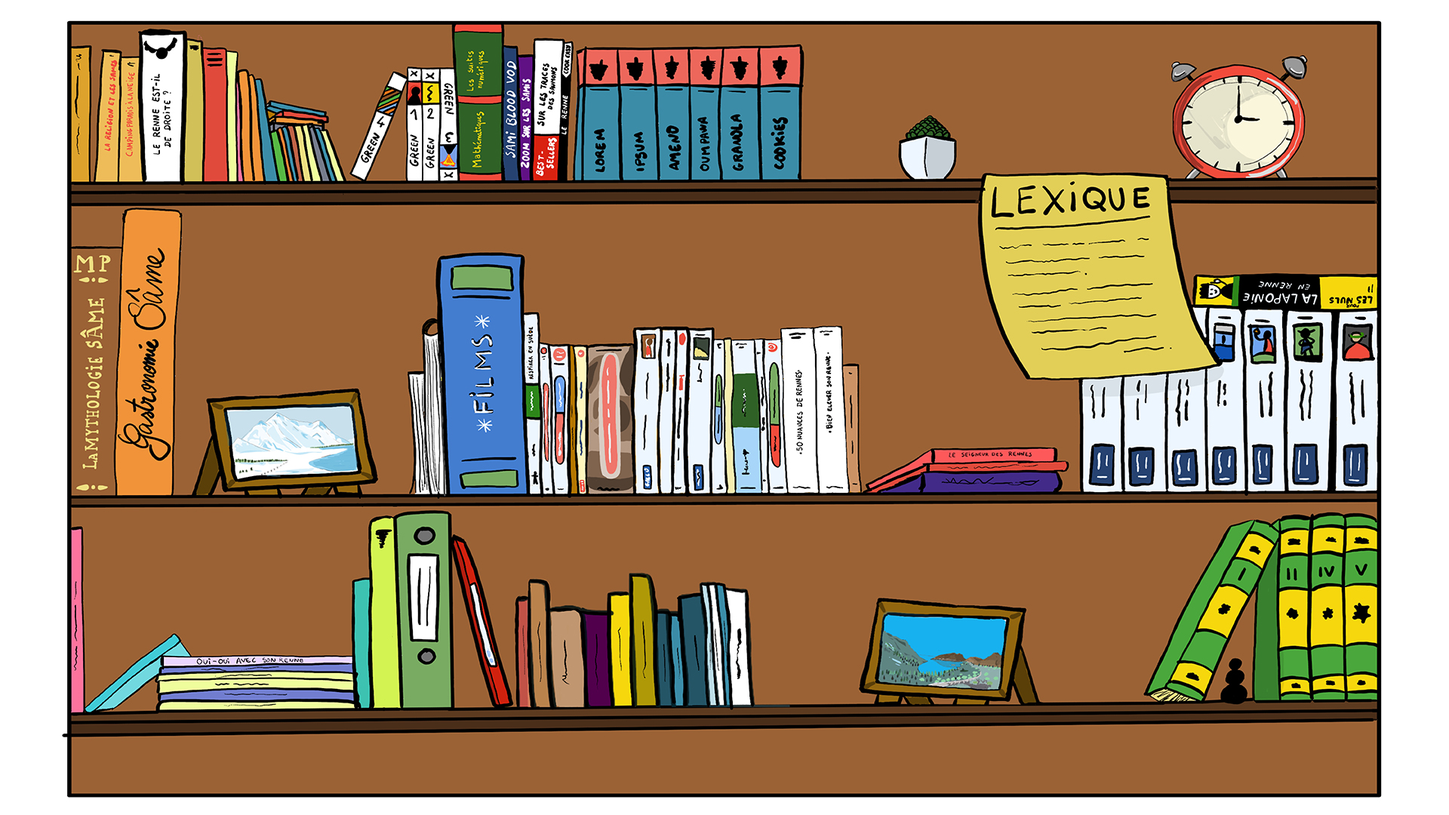
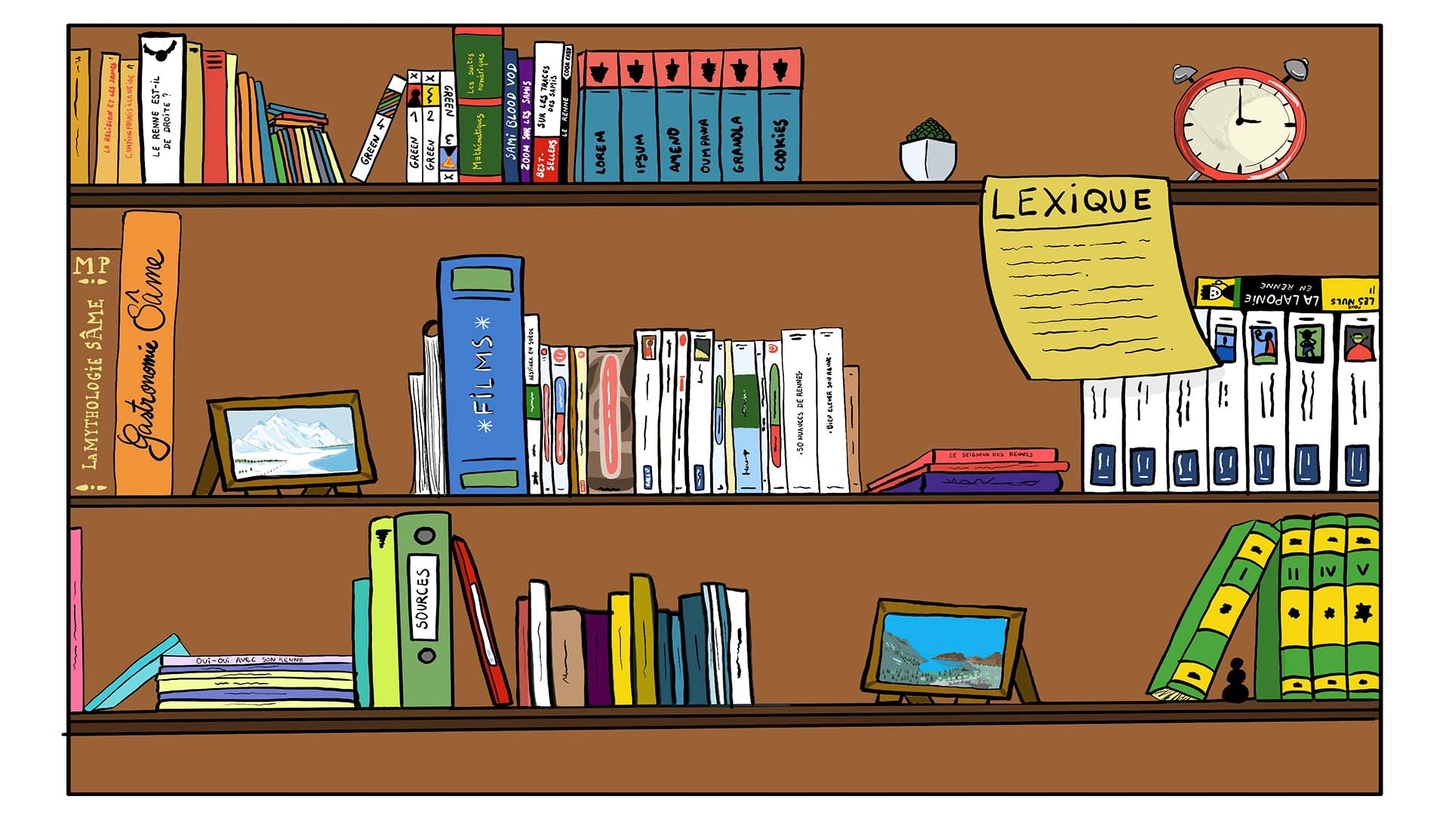
Commit final ???

diff --git a/pages/articles/histoire.html b/pages/articles/histoire.html
@@ -23,18 +23,18 @@
         </div>
         <div class="article-container">
             <div class="ligne l1">
-                <p>Les premiers habitants de Sápmi ont avancé vers le nord à mesure que les glaciers de la dernière période glaciaire reculaient. Leur culture plus large a probablement émergé d’un mélange de plusieurs groupes partageant des modes de vie similaires. Le paysage enneigé du Sápmi rendait l'invasion difficile, ils avaient donc rarement besoin de se battre ou de s'organiser politiquement. Ils ont acquis une réputation parmi les premiers écrivains en tant que sorciers insaisissables, patinant sur la neige sur des skis en bois. À la fin du Moyen-age, cependant, leurs voisins du sud avaient commencé à regarder vers le nord. Les anciennes voies de migration des rennes emmenaient désormais les Samis à travers de multiples frontières, attirant des impôts de tous côtés. Pour remédier à ce problème, les Samis ont pour certains apprivoisés leurs rennes, remodelant les schémas migratoires et réduisant leurs pâturages. D'autres se sont installés dans des communautés côtières, où ils ont gagné leur vie en tant que commerçants, agriculteurs et pêcheurs. Encore plus vivaient dans les forêts comme trappeurs et éleveurs limités de rennes.</p>
+                <p>Les premiers habitants du Sápmi (le territoire des samis) ont avancé vers le nord à mesure que les glaciers de la dernière période glaciaire reculaient. Leur culture a probablement émergé d’un mélange de plusieurs groupes partageant des modes de vie similaires. Le paysage enneigé du sapmi rendait l'invasion difficile, ils avaient donc rarement besoin de se battre ou de s'organiser politiquement. Ils ont acquis une réputation parmi les premiers écrivains en tant que sorciers insaisissables, patinant sur la neige sur des skis en bois.À la fin du Moyen  ge cependant, leurs voisins du sud ont commencé à regarder vers le nord. Les anciennes voies de migration des rennes amenaient désormais les Samis à travers de multiples frontières, attirant des impôts de tous côtés. Pour remédier à ce problème, certains des samis ont apprivoisé leurs rennes, remodelant les schémas migratoires et réduisant leurs pâturages. D'autres se sont installés dans des communautés côtières où ils ont gagné leur vie en tant que commerçants, agriculteurs et pêcheurs. Beaucoup plus vivaient dans les forêts comme trappeurs et éleveurs limités de rennes.</p>
             </div>
             <div class="ligne l2 limg">
-                <p>Malgré la colonisation et la christianisation forcée que les Samis côtiers ont été les premiers à subir, en raison de leurs contacts plus étroits avec les colons européens, le peuple Sami est le dernier peuple indigène d'Europe. En effet les Samis sont un peuple de laponie dont les origines remontent à plus de 4000 ans. Ce peuple des grands froids souvent nommé lapon, même si ils préfèrent la dénomination "Samis" qui vient de la tradition finno-ougriste française (neuf dialectes) utilisant le terme “same” . De plus la racine “lapp” signifiant porteur de haillons en suédois, explique que ce surnom déplaise à ce peuple.</p>
+                <p>Malgré la colonisation et la christianisation forcée (que les Samis côtiers ont été les premiers à subir en raison de leurs contacts plus étroits avec les colons européens), le peuple sami est le dernier peuple indigène d'Europe. En effet les samis sont un peuple de laponie dont les origines remontent à plus de 4000 ans. Ce peuple des grands froids est souvent nommé “lapon”, mais il préfère la dénomination “sami” qui vient du terme “same” de la tradition finno-ougriste française(composé de neuf dialectes). De plus, la racine “lapp” signifiant “porteur de haillons” en suéduois,vexplique que ce surnom déplaise  à ce peuple.</p>
                 <img src="../../img/histoire1.jpg" alt="">
             </div>
             <div class="ligne l3">
-                <p>Les Samis sont des nomades qui vivent de l'élevage de renne. le renne est au cœur de la culture Samis que ce soit leur saison ou encore leur vie qui suit le gré des aurore boréale et le cycle de vie des rennes. Leur mode de vie a un lien très fort avec la nature. Pour se nourrir les Samis ont recours à la chasse, la pêche ou encore la cueillette. Malgré les années, le peuple sami est toujours bien ancré dans ses terres car la population Sami est d’environ 80 à 100 000 personnes.Les Sami ont continué leur mode de vie traditionnel jusque vers les années 1500. La christianisation forcée des Samis a conduit à une répression religieuse dans de nombreux domaines. Les communautés sâmes ont vu leurs tambours de chaman brûlés et leurs enfants retirés pour être scolarisés dans des écoles publiques. La perte de terres, l'extraction de l'argent, la surpêche et la construction de barrages ont tous menacé le mode de vie Sami tout au long du 20e siècle. Traités comme une curiosité par les scientifiques et les touristes.</p>
+                <p>Les samis sont des nomades qui vivent de l'élevage de renne. Le renne est au cœur de la culture sami que ce soit au niveau de leur saison ou encore leur vie qui suit le gré des aurores boréales et le cycle de vie des rennes. Leur mode de vie a un lien très fort avec la nature. Pour se nourrir les samis ont recours à la chasse, la pêche ou encore la cueillette. Malgré les années, le peuple sami est toujours bien ancré dans ses terres et  la population sami est d’environ 80 à 100 000 personnes.Les Sami ont continué leur mode de vie traditionnel jusqu’au années 1500. La christianisation forcée des samis a conduit à une répression religieuse dans de nombreux domaines. Les communautés sâmes ont vu leurs tambours de chaman brûlé et leurs enfants retirés pour être scolarisés dans des écoles publiques. La perte des terres, l'extraction de l'argent, la surpêche et la construction de barrages ont menacé le mode de vie sami tout au long du 20e siècle. Les samis étaient traités comme une curiosité par les scientifiques et les touristes.</p>
             </div>
             <div class="ligne l4 limg">
                 <img src="../../img/histoire2.jpg" alt="">
-                <p>Cela a commencé à changer dans les années 1970, lorsque des militants Samis se sont manifestés. Leurs efforts ont alimenté un renouveau culturel plus large, aboutissant à des parlements Samis en Norvège, en Suède et en Finlande. Aujourd'hui, environ 10 000 Samis continuent de pratiquer l'élevage de rennes. Ils font partie d'une population plus large d'environ 70 000 personnes qui s'identifient comme Sami. La majorité, cependant, mène des modes de vie moderne en tant que membres de leurs nations.</p>
+                <p>Cela a commencé à changer dans les années 1970, lorsque des militants Samis se sont manifestés. Leurs efforts ont alimenté un renouveau culturel plus large, aboutissant à des parlements Samis en Norvège, en Suède et en Finlande. Aujourd'hui, environ 10 000 Samis continuent de pratiquer l'élevage de rennes. Ils font partie d'une population plus large d'environ 70 000 personnes qui s'identifient comme sami. La majorité, cependant, mènent des modes de vie modernes en tant que membres de leurs nations.</p>
                 
             </div>
         </div>

diff --git a/pages/articles/vetements.html b/pages/articles/vetements.html
@@ -23,11 +23,11 @@
         </div>
         <div class="article-container">
             <div class="ligne l1">
-                <p>Le kofte (« kofte » signifie « tunique » en norvégien) est le nom norvégien pour désigner le costume traditionnel des Samis. Contrairement aux idées occidentales bien trop répandues, le costume traditionnel n’est pas un habillement folklorique pour faire plaisir aux touristes. Le costume est un symbole important de l’identité Sami. Les couleurs dominantes sont le vert, le rouge, le bleu et le jaune. Les costumes sont différents selon les régions du Sápmi, et selon le sexe de la personne qui le porte, le motif en fonction de la commune ou du district où il est porté. Selon son style, le kofte présente l’origine géographique, le parcours religieux et le statut marital de celui ou celle qui le porte. Il est aussi un moyen de communication, car certains détails sont porteurs de divers messages, par exemple, lors d’un mariage, les femmes peuvent retourner leur bonnet pour exprimer leur désaccord envers l’union célébrée. Dans la langue des Samis, on l’appelle différemment en fonction de la région. Ainsi, pour les Samis du Nord, on dit « gákti », pour les Samis de Lule, on parle de « gáppte », alors que les Samis du Sud le désignent par « gapta » ou « gåptoe ».</p>
+                <p>Contrairement aux idées occidentales bien trop répandues, le costume traditionnel n’est pas un habillement folklorique pour faire plaisir aux touristes, il est un symbole important de l’identité sami. Les couleurs dominantes sont le vert, le rouge, le bleu et le jaune. Les costumes sont différents selon les régions du Sápmi, et selon le sexe de la personne qui le porte, le motifs en fonction de la commune ou du district où il est porté. Selon son style, l’habit présente l’origine géographique, le parcours religieux et le statut marital de celui ou celle qui le porte. Il est aussi un moyen de communication, car certains détails sont porteurs de divers messages, par exemple, lors d’un mariage, les femmes peuvent retourner leur bonnet pour exprimer leur désaccord envers l’union célébrée.  Dans la langue des Samis, on l’appelle différemment en fonction de la région. Ainsi, pour les Samis du Nord, on dit « gákti », pour les Samis de Lule, on parle de « gáppte », tandis que les Samis du Sud le désignent par « gapta » ou « gåptoe ».</p>
             </div>
             <img class="vetement-img" src="../../img/vetements.jpg" alt="">
             <div class="ligne l2">
-                <p>Le kofte se compose d’une tunique à manches longues et serrée à la taille par une ceinture. Pour les femmes, elle est toujours plus longue que pour les hommes. Le bonnet est également différent pour les femmes et les hommes, ces derniers portant souvent des bonnets à pointes, comme le bonnet « aux quatre vents ». Sous la tunique, on vêtit un pantalon pour les hommes ou un collant pour les femmes. Quant aux chaussures, elles sont appelées « skaller » et sont généralement confectionnées en peau de renne, mais aussi en cuir. Elles ont la pointe relevée et sont décorées de pompons et de bandes colorées et enroulées autour de la cheville. La tunique, la ceinture et le bonnet sont agrémentés de broderies d’après des motifs très précis, tandis que l’on peut rajouter une aumônière ou des moufles en peau ou en laine et spécialement pour les femmes, une large broche en argent sur la poitrine ou un châle à franges sur les épaules. Le kofte est traditionnellement confectionné en peau et en laine.</p>
+                <p>L’habit se compose d’une tunique à manches longues et est serrée à la taille par une ceinture. Pour les femmes, elle est toujours plus longue que pour les hommes. Le bonnet est également différent pour les femmes et les hommes, ces derniers portant souvent des bonnets à pointes, comme le bonnet « aux quatre vents ». Sous la tunique, les hommes portent un pantalon et les femmes un collant. Les chaussures sont appelées « skaller » et sont généralement confectionnées en peau de renne, mais aussi en cuir. Elles ont la pointe relevée et sont décorées de pompons et de bandes colorées et enroulées autour de la cheville. La tunique, la ceinture et le bonnet sont agrémentés de broderies d’après des motifs très précis, on peut rajouter une aumônière ou des moufles en peau ou en laine et, spécialement pour les femmes, une large broche en argent sur la poitrine ou un châle à franges sur les épaules. L’habit est traditionnellement confectionné en peau et en laine.</p>
             </div>
         </div>
     </main>

diff --git a/pages/articles/chasse-et-peche.html b/pages/articles/chasse-et-peche.html
@@ -26,16 +26,16 @@
         <div class="article-container">
             <div class="ligne l1">
                 <h1>La chasse</h1>
-                <p>La chasse est un rituel sacré pour les Samis, car pour eux, que ce soit les proies ou les armes qui servent à les tuer, tous possèdent un esprit. Elle inspire donc au Samis un immense respect et l’adoration. Les Samis ont entièrement domestiqué le renne au XVIe siècle. Avant cela, les Samis dépendaient principalement de la chasse des rennes sauvages qui se déplaçaient en vastes troupeaux à travers le Sápmi. Les Samis étaient des archers qualifié, les garçons apprenaient à tirer à l'arc dès leur plus jeune âge. Mais ils préféraient piéger les rennes dans des fossés plutôt que de les chasser à l'arc. Ou alors les attiraient dans des corrals à l'aide de leurs animaux domestiqués.</p>
+                <p>La  chasse est un rituel sacré pour les samis car pour eux, que ce soit au niveau des proies ou des armes qui servent à les tuer, tout possède un esprit. Elle inspire donc au samis un immense respect et l’adoration. Les Sami ont entièrement domestiqué le renne au XVIe siècle. Avant cela les samis dépendaient principalement de la chasse des rennes sauvages qui se déplaçaient en vastes troupeaux à travers le Sápmi. Les samis étaient des archers qualifiés et les garçons apprenaient à tirer à l'arc dès leur plus jeune âge. Mais ils (les samis) préféraient piéger les rennes dans des fossés plutôt que de les chasser à l'arc. Ils les attiraient également dans des corrals à l'aide de leurs animaux domestiqués.</p>
             </div>
             <div class="ligne l2 limg">
-                <p>Cette pratique a peu à peu cessé d'être à mesure ou les Samis apprivoisaient les rennes. Mais les rennes n'étaient pas les seuls animaux chassés par les Samis, les ours, les loups, l'orignal et d'autres animaux utiles du sapmi. Les plus patients parmi les Samis côtiers chassaient les phoques en attendant au-dessus des trous dans la glace. Les Samis forestiers quant à eux chassaient les ecureuil, des loutre et d’autre animaux à fourrure. Les outils de chasse des Samis étaient gardés à l'arrière des tentes dans l’espace de vie masculin.</p>
+                <p>Ces pratiques ont peu à peu cessé d'être à mesure que les samis apprivoisaient les rennes. Les rennes n'étaient cependant pas les seuls animaux  chassés par les samis. Les ours, les loups, l'orignal (également nommé élan) et d'autres animaux utiles du sapmi étaient chassé. Les plus patients parmi les samis côtiers chassaient les phoques en attendant au-dessus de trous dans la glace.  Les samis forestiers quant à eux chassaient les écureuil, les loutres et autres animaux à fourrure. Les outils de chasse des samis était gardé à l'arrière des tentes dans l’espace de vie masculin.</p>
                 <img src="../../img/pechechasse1.jpg" alt="">
             </div>
             <h2>La pêche</h2>
             <div class="ligne l3 limg">
                 <img src="../../img/pechechasse2.jpg" alt="">
-                <p>Aussi importante que la chasse dans la culture Sami primitive la pêche, est en effet elle aussi très importante, car pour les Samis côtiers qui avaient moins de forêt au alentour la pêche était indispensable. Les Samis côtiers entretenaient des fermes et pêchaient des poissons d’eau salée et plus à l'intérieur des terres les Samis pêchait des truites, mais plus particulièrement du saumon qui est avec le renne, le gibier le plus mangé par les Samis. Depuis 2021, la pêche du saumon est menacée, car le Deatnu haut lieu de la culture des pêcheurs Samis les autorités y interdisent la pêche aux saumons pour protéger l’espèce en déclin à cause de la surpêche.</p>
+                <p>Aussi importante que la chasse dans la culture sami primitive, la pêche a elle aussi un rôle prépondérant pour les samis vivant sur les côtes. Ils entretenaient des fermes et pêchaient des poissons d’eau salée. Plus à l'intérieur des terres, les samis pêchaient des truites mais plus particulièrement du saumon qui est, avec le renne, la viande la plus mangée par les samis. Depuis 2021, la pêche du saumon est menacée car dans le Deatnu, zone importante pour la pêche sami, elle est interdite à la pêche par les autorités afin de protéger l’espèce en déclin à cause de la surpêche.</p>
                 
             </div>
         </div>

diff --git a/pages/articles/filmographie.html b/pages/articles/filmographie.html
@@ -1,0 +1,51 @@
+<!DOCTYPE html>
+<html lang="en">
+<head>
+<link rel="icon" type="image/png" href="../../img/logo-blanc.png"/>
+    <meta charset="UTF-8">
+    <meta http-equiv="X-UA-Compatible" content="IE=edge">
+    <meta name="viewport" content="width=device-width, initial-scale=1.0">
+    <link rel="stylesheet" href="../../css/styles.css">
+    <link rel="stylesheet" href="../../css/articles-template.css">
+    <link rel="stylesheet" href="../../css/filmographie.css">
+    <title>Le Sápmi | Webdoc sami</title>
+</head>
+<body>
+    <header>
+        <a href="../../index.html">
+            <img class="logo" src="../../img/logo-bleu.png" alt="Logo du webdoc">
+        </a>
+    </header>
+
+    <main>
+        <div class="title">
+            <h1>Filmographie</h1>
+        </div>
+        <div class="article-container">
+            <div class="ligne l1">
+                <h2><u>Une jeunesse en Laponie</u>, 2018, réalisé par Amanda Kernell</h2>
+                <p>Elle, 14 ans, est une jeune fille d’origine Sâmi. Élève en internat, exposée au racisme des années 30 et à l’humiliation des évaluations ethniques, elle commence à rêver d’une autre vie. Pour s’émanciper et affirmer ce qu’elle souhaite devenir, elle n’a d’autres choix que rompre tous les liens avec sa famille et sa culture.</p>
+            </div>
+            <div class="ligne l2">
+                <h2><u>Jours polaires</u> (série), 2016, réalisé par Måns Mårlind et Björn Stein</h2>
+                <p>Au cœur de l’été arctique, à Kiruna, ville suédoise du cercle polaire, est perpétré le meurtre violent et mystérieux d'un citoyen français. Très vite, Kahina Zadi, capitaine française de l'Office central pour la répression des violences aux personnes, est immédiatement dépêchée sur place afin de mener l’enquête avec la police locale et plus particulièrement avec le procureur Anders Harnesk.</p>
+            </div>
+            <div class="ligne l3">
+                <h2><u>Klaus</u> (film d'animation), 2019, Sergio Pablos</h2>
+                <p>Jesper, qui s'est distingué comme le pire élève de son école de facteurs, écope d'une mission sur une île enneigée, au nord du Cercle arctique. Là-bas, les habitants ne s'entendent pas et ne se parlent presque jamais. Autant dire qu'ils n'entretiennent pas non plus de correspondance ! Alors que Jesper est sur le point d'abandonner, il trouve une alliée en la personne d'Alva, l'institutrice de l'île, et fait la connaissance de Klaus, mystérieux menuisier qui vit seul dans son chalet regorgeant de jouets artisanaux. Grâce à ces relations amicales inattendues, la petite ville de Smeerensburg retrouve la joie de vivre. C'est ainsi que ses habitants découvrent la générosité entre voisins, les contes de fée et la tradition des chaussettes soigneusement accrochées à la cheminée pour Noël !</p>
+            </div>
+            <div class="ligne l4">
+                <h2><u>Le passeur</u>, 1987,Nils Gaup</h2>
+                <p>Il y a quelque mille ans en Laponie. Aigin, adolescent de retour de la chasse, retrouve toute sa famille massacrée par un groupe de guerriers tchudes. Repéré, il parvient à s'enfuir et trouve refuge dans un campement lapon voisin. Cependant, blessé, il a laissé des traces derrière lui. Certains hommes de la tribu lui reprochent de les avoir mis en danger et décident de s'enfuir. Aigin reste seul, bien décidé à venger sa famille. Quelques heures plus tard, des Lapons reviennent pour l'aider, mais ils sont à nouveau massacrés. Aigin propose alors un marché aux Tchudes.</p>
+            </div>
+        </div>
+    </main>
+
+    <footer>
+        <div class="wrapper">
+          <a href="../bibliotheque-interact.html"><span>Retour</span></a>
+        </div>
+    </footer>
+</body>
+
+</html>

diff --git a/pages/articles/livres.html b/pages/articles/livres.html
@@ -1,0 +1,50 @@
+<!DOCTYPE html>
+<html lang="en">
+<head>
+<link rel="icon" type="image/png" href="../../img/logo-blanc.png"/>
+    <meta charset="UTF-8">
+    <meta http-equiv="X-UA-Compatible" content="IE=edge">
+    <meta name="viewport" content="width=device-width, initial-scale=1.0">
+    <link rel="stylesheet" href="../../css/styles.css">
+    <link rel="stylesheet" href="../../css/articles-template.css">
+    <link rel="stylesheet" href="../../css/livres.css">
+    <title>Le Sápmi | Webdoc sami</title>
+</head>
+<body>
+    <header>
+        <a href="../../index.html">
+            <img class="logo" src="../../img/logo-bleu.png" alt="Logo du webdoc">
+        </a>
+    </header>
+
+    <main>
+        <div class="title">
+            <h1>Filmographie</h1>
+        </div>
+        <div class="article-container">
+            <h2><u>comment cuire un ours</u>, Mikael Niemi</h2>
+            <div class="ligne l1 limg">
+                <p>En 1852, Lars Levi Laestadius, botaniste émérite, pasteur haut en couleur du petit village de Kengis tente de combattre l’athéisme et l’alcoolisme de ses paroissiens. Contre l'avis des villageois, Laestadius recueille un jeune garçon sámi, affamé et illettré, Jussi, qu’il va secrètement formé à la botanique. Lorsqu'une servante est retrouvée morte dans la forêt, ce crime est imputé à… un ours. Laestadius n'y croit pas un instant. Quand une deuxième jeune fille vient à disparaître, Laestadius décide de mener l'enquête accompagné de Jussi.</p>
+                <img src="../../img/cuireunourse.png" alt="">
+            </div>
+            <h2><u>le dernier lapon</u>, Olivier Truc</h2>
+            <div class="ligne l2 limg">
+                <img src="../../img/dernierLapon.png" alt="">
+                <p>À Kautokeino, grand village sami au milieu de la toundra, un tambour spécial est volé. La mort d’un éleveur de rennes n’arrange rien à l’affaire. Deux enquêteurs de la police des rennes Klemet Nango  et son équipière Nina Nansen vont mener l'enquête persuadés que les 2 affaires sont liées. Mais à Kautokeino on n’aime pas remuer les vieilles histoires et ils sont renvoyés. A la pacification des éternelles querelles entre éleveurs de rennes dont les troupeaux se mélangent.</p>
+            </div>
+            <h2><u> la loi des sames</u>, Lars Pettersson</h2>
+            <div class="ligne l3 limg">
+                <p>Kautokeino, localité où des Sames continuent à vivre de l’élevage des rennes, selon la tradition. Anna Magnusson, jeune substitut du procureur à Stockholm, mène une existence à mille lieues de ses origines sames. Jusqu’au jour où sa grand-mère l’appelle à l’aide : son cousin Nils Mattis est accusé de viol. Une fois sur place, rien ne se passe comme prévu. Anna se trouve confrontée aux lois implicites qui règnent dans ces contrées reculées. cette affaire de viol n’est que la partie émergée d’une situation bien plus complexe. Commence pour elle une périlleuse enquête, qui lui fera redécouvrir ses racines et l’univers de ses ancêtres.</p>
+                <img src="../../img/loisami.png" alt="">
+            </div>
+        </div>
+    </main>
+
+    <footer>
+        <div class="wrapper">
+          <a href="../bibliotheque-interact.html"><span>Retour</span></a>
+        </div>
+    </footer>
+</body>
+
+</html>

diff --git a/pages/articles/cuisine.html b/pages/articles/cuisine.html
@@ -25,11 +25,10 @@
         </div>
         <div class="article-container">
             <div class="ligne l1">
-                <p>La cuisine Samis comme la cuisine de Laponie suédoise est basée sur une production locale. À la différence que la cuisine Samis à un univers bien à elle. L’un de leur aliment de base est le suovas (qui signifie « fumé » en langue Sami) c’est une viande de renne salée et fumée, elle est souvent associé avec du pain et des airelles. La saveur du suovas est rehaussée par un fumage à froid sous une kåta (prononcer « côta »), c’est-à-dire une tente Sami, au-dessus d’un feu de bois. Mis à part en suova le renne est bien sûr mangé sous toutes ses formes. Les samis sont entourés de forêt et ont donc des baies tel que des fraises, des airelles, des camarines, des sorbes, et des baies d’argousier à disposition, ils ont aussi à disposition des champignons et des escargots. Les légumes qu'il mange sont pour la plupart des légumes racines qu’il mange soit en soupe ou purée soit sous forme de pickles. Une de leur friandise est la réglisse salée qui est propre aux pays nordiques. Enfin comment parler de la cuisine samis sans parler de poisson qui tout comme le renne a une place bien à lui dans la cuisine Samis, le poison lui est manger en soupe principalement mais aussi fumé ou encore juste cuit au feu accompagné de baie.</p>
+                <p>La cuisine des samis représente un univers gastronomique à part entière. L’un de leur aliment de base est le  suovas (qui signifie « fumé » en langue samie), c’est une viande de renne salée et fumée, elle est souvent associée à du pain et des airelles. La saveur du suovas est rehaussée par un fumage à froid sous une kåta (prononcer « côta »), c’est-à-dire une tente samie. Mis à part en suova, le renne est bien sûr mangé sous d’autres  formes. Les samis sont entourés de forêt et ont donc des baies telles que des airelles, des camarines, des sorbes, et des baies d’argousier à disposition. </p>
+                <p> ils ont aussi à disposition des fraises, des champignons et  des escargots (qui n’ont rien à envier à la gastronomie française). Les légumes qu'ils mangent sont pour la plupart des légumes racines qu’il mange soit en soupe ou purée soit sous forme de pickles (des conserves dans des bocaux en verre, un peu comme pour nos cornichons). Existe également dans la cuisine sami une sucrerie bien plus connue en Europe du Nord, la réglisse salée. enfin comment parler de la cuisine samis sans parler de poisson qui tout comme le renne a une place bien à lui dans la cuisine samis. Il est mangé en soupe principalement mais aussi fumé ou encore juste cuit au feu  et accompagné de baies.</p>
             </div>
-            <iframe width="420" height="315"
-src="https://www.youtube.com/embed/fulpkP2lPhU">
-</iframe>
+            <iframe width="453" height="805" src="https://www.youtube.com/embed/fulpkP2lPhU" title="YouTube video player" frameborder="0" allow="accelerometer; autoplay; clipboard-write; encrypted-media; gyroscope; picture-in-picture" allowfullscreen></iframe>
         </div>
     </main>
 

diff --git a/pages/articles/joik.html b/pages/articles/joik.html
@@ -1,0 +1,46 @@
+<!DOCTYPE html>
+<html lang="en">
+<head>
+<link rel="icon" type="image/png" href="../../img/logo-blanc.png"/>
+    <meta charset="UTF-8">
+    <meta http-equiv="X-UA-Compatible" content="IE=edge">
+    <meta name="viewport" content="width=device-width, initial-scale=1.0">
+    <link rel="stylesheet" href="../../css/styles.css">
+    <link rel="stylesheet" href="../../css/articles-template.css">
+    <link rel="stylesheet" href="../../css/joik.css">
+    <title>Le Sápmi | Webdoc sami</title>
+</head>
+<body>
+    <header>
+        <a href="../../index.html">
+            <img class="logo" src="../../img/logo-bleu.png" alt="Logo du webdoc">
+        </a>
+    </header>
+
+    <main>
+        <div class="title">
+            <h1>La musique sami</h1>
+        </div>
+        <div class="article-container">
+            <div class="ligne l1">
+                <p>Le joik est le chant traditionnel du peuple sami. Il se divise en trois grands styles de chant : le « luohti », le « vuolle » et le « leu’dd » selon l’origine géographique des tribus samis qui l’ont créé. Le chant, qui peut prendre des formes extrêmement variées, laisse une large place à l’improvisation du chanteur, appelé le “joikeur”. Issu des traditions chamaniques, exécuté a cappella, parfois accompagné d’un tambour traditionnel, le joik est d’abord un chant à vocation spirituelle avant de devenir un mode d’expression du peuple sami à la fin du xxe siècle. Un joik a pour fonction de décrire l’essence d’une personne, d’un lieu ou d’un animal. Ainsi, chaque homme ou femme sami possède sa mélodie qui est en quelque sorte son « portrait musical ».</p>
+            </div>
+            <div class="ligne l2">
+                <h2>Une véritable tradition vivante</h2>
+                <p>La caractéristique principale des joiks est l’utilisation de syllabes répétées à plusieurs reprises. Si certains joiks sont constitués de véritables textes compréhensibles, il existe également des formes dans lesquelles aucun mot n’est distinct  mais qui sont composées de murmures, d’interjections et d’imitations de cris animaux scandés sur une pulsation. Il présente des similitudes importantes avec les chants traditionnels amérindiens ou encore avec les chants de gorge des peuples inuits ou des peuples d’Asie centrale.</p>
+            </div>
+            <div class="ligne l3">
+                <iframe width="560" height="315" src="https://www.youtube.com/embed/f2Iod5y8Cbo" title="YouTube video player" frameborder="0" allow="accelerometer; autoplay; clipboard-write; encrypted-media; gyroscope; picture-in-picture" allowfullscreen></iframe>
+                <iframe width="560" height="315" src="https://www.youtube.com/embed/15HEXS11e7c" title="YouTube video player" frameborder="0" allow="accelerometer; autoplay; clipboard-write; encrypted-media; gyroscope; picture-in-picture" allowfullscreen></iframe>
+            </div>
+        </div>
+    </main>
+
+    <footer>
+        <div class="wrapper">
+          <a href="../interieur-interact.html"><span>Retour</span></a>
+        </div>
+    </footer>
+</body>
+
+</html>

diff --git a/pages/bibliotheque-interact.html b/pages/bibliotheque-interact.html
@@ -13,7 +13,7 @@
 
 <body class="body-interact-3">
   <header>
-    <a href="../../index.html">
+    <a href="../index.html">
       <img class="logo" src="../img/logo-bleu.png" alt="Logo du webdoc">
     </a>
   </header>
@@ -32,23 +32,30 @@
 
       <!-- Filmographie -->
       <g class="hover_group">
-        <a href="#">
+        <a href="./articles/filmographie.html">
           <rect x="585" y="340" width="110" height="315"></rect>
           <text x="520" y="500" >Filmographie</text>
+        </a>
+      </g>
+
+      <!-- sources -->
+      <g class="hover_group">
+        <a href="https://docs.google.com/document/d/1eUopEgX-M1wwwiLP0T288MvJ5GkmTXTX7NTtlJrpBh0/edit?usp=sharing">
+          <rect x="525" y="677" width="75" height="260"></rect>
         </a>
       </g>
 
       <!-- Histoire -->
       <g class="hover_group">
         <a href="../pages/articles/histoire.html">
-          <rect x="600" y="33" width="165" height="206"></rect>
-          <text x="615" y="150">Histoire</text>
+          <rect x="665" y="33" width="100" height="206"></rect>
+          <text x="650" y="150">Histoire</text>
         </a>
       </g>
 
       <!-- Livres -->
       <g class="hover_group">
-        <a href="#">
+        <a href="./articles/livres.html">
           <rect x="695" y="410" width="445" height="245"></rect>
           <text x="850" y="550">Livres</text>
         </a>
@@ -67,6 +74,13 @@
         <a href="../pages/articles/sapmi.html">
           <rect x="275" y="515" width="215" height="125"></rect>
           <text x="330" y="585">Sapmi</text>
+        </a>
+      </g>
+
+      <!-- suites numériques -->
+      <g class="hover_group easteregg">
+        <a target="_blank" href="https://moodle.iut-tlse3.fr/pluginfile.php/517015/mod_resource/content/1/Suites2022_Cours.pdf">
+          <rect x="600" y="33" width="65" height="206"></rect>
         </a>
       </g>
 

diff --git a/pages/articles/sapmi.html b/pages/articles/sapmi.html
@@ -8,7 +8,7 @@
     <link rel="stylesheet" href="../../css/styles.css">
     <link rel="stylesheet" href="../../css/articles-template.css">
     <link rel="stylesheet" href="../../css/sapmi.css">
-    <title>Le Sapmi | Webdoc sami</title>
+    <title>Le Sápmi | Webdoc sami</title>
 </head>
 <body>
     <header>
@@ -19,11 +19,11 @@
 
     <main>
         <div class="title">
-            <h1>Le Sapmi</h1>
+            <h1>Le Sápmi</h1>
         </div>
         <div class="article-container">
             <div class="ligne l1">
-                <p>Les samis appellent le territoire sur lequel ils vivent “Sápmi” (en bleu sur l'image). Cette région, particulièrement jolie, est également très tranquille. Le Sápmi est un espace qui accueille rivières sauvages, lacs et ruisseaux aux eaux pures, toundra et forêts, les sommets sont enneigés. Les samis y sont implantés depuis des temps immémoriaux. A l'origine le peuple vivait de la terre sans pour autant l’exploiter.</p>
+                <p>Les samis appellent le territoire sur lequel ils vivent “Sápmi”. Cette région, particulièrement jolie, est également très tranquille. Le Sápmi est un espace qui accueille rivières sauvages, lacs et ruisseaux aux eaux pures, toundra et forêts, les sommets sont enneigés. Les samis y sont implantés depuis des temps immémoriaux. A l'origine le peuple vivait de la terre sans pour autant l’exploiter.</p>
                 <img src="../../img/territoireSapmi.png" alt="">
             </div>
         </div>

diff --git a/pages/articles/saisons.html b/pages/articles/saisons.html
@@ -32,7 +32,7 @@
             </div>
             <div class="ligne l3">
                 <h3>L’hiver printanier – Gijrradálvvie</h3>
-                <p> De début mars à fin avril, lorsque les jours commencent enfin à s’allonger.  La nature émerge timidement de sa phase de repos. Les samis surnomment l’hiver printanier la «saison du Réveil». Les rennes trouvent plus facilement la nourriture dont ils ont urgemment besoin. C’est surtout vrai pour les femelles, qui portent encore leurs faons et qui sentent qu’elles devront bientôt rejoindre l’endroit où elles leur donneront naissance.</p>
+                <p>De début mars à fin avril, lorsque les jours commencent enfin à s’allonger.  La nature émerge timidement de sa phase de repos. Les samis surnomment l’hiver printanier la «saison du Réveil». Les rennes trouvent plus facilement la nourriture dont ils ont urgemment besoin. C’est surtout vrai pour les femelles, qui portent encore leurs faons et qui sentent qu’elles devront bientôt rejoindre l’endroit où elles leur donneront naissance.</p>
             </div>
             <div class="ligne l4">
                 <h3>Printemps – Gijrra</h3>

diff --git a/pages/main-interact.html b/pages/main-interact.html
@@ -13,7 +13,7 @@
 
 <body class="body-interact-1">
   <header>
-    <a href="../../index.html">
+    <a href="../index.html">
       <img class="logo" src="../img/logo-bleu.png" alt="Logo du webdoc">
     </a>
   </header>
@@ -26,7 +26,7 @@
       <g class="hover_group">
         <a href="./interieur-interact.html">
           <rect x="550" y="550" width="185" height="275"></rect>
-          <text x="585" y="710" >Rentrer</text>
+          <text x="585" y="710" >Entrée</text>
         </a>
       </g>
 
@@ -58,7 +58,8 @@
       <g class="hover_group">
         <a href="./articles/chasse-et-peche.html">
           <rect x="1250" y="600" width="25" height="325"></rect>
-          <text x="1200" y="790">Chasse</text>
+          <text x="1200" y="750">Chasse</text>
+          <text x="1213" y="800">Pêche</text>
         </a>
       </g>
 

diff --git a/pages/interieur-interact.html b/pages/interieur-interact.html
@@ -13,7 +13,7 @@
 
 <body class="body-interact-2">
   <header>
-    <a href="../../index.html">
+    <a href="../index.html">
       <img class="logo" src="../img/logo-bleu.png" alt="Logo du webdoc">
     </a>
   </header>
@@ -53,6 +53,14 @@
         <a href="../pages/bibliotheque-interact.html">
           <rect x="1430" y="190" width="375" height="210"></rect>
           <text x="1520" y="300">Bibliothèque</text>
+        </a>
+      </g>
+
+      <!-- joik -->
+      <g class="hover_group">
+        <a href="./articles/joik.html">
+          <rect x="1450" y="475" width="120" height="290"></rect>
+          <text x="1435" y="625">Musique</text>
         </a>
       </g>
     </svg>
